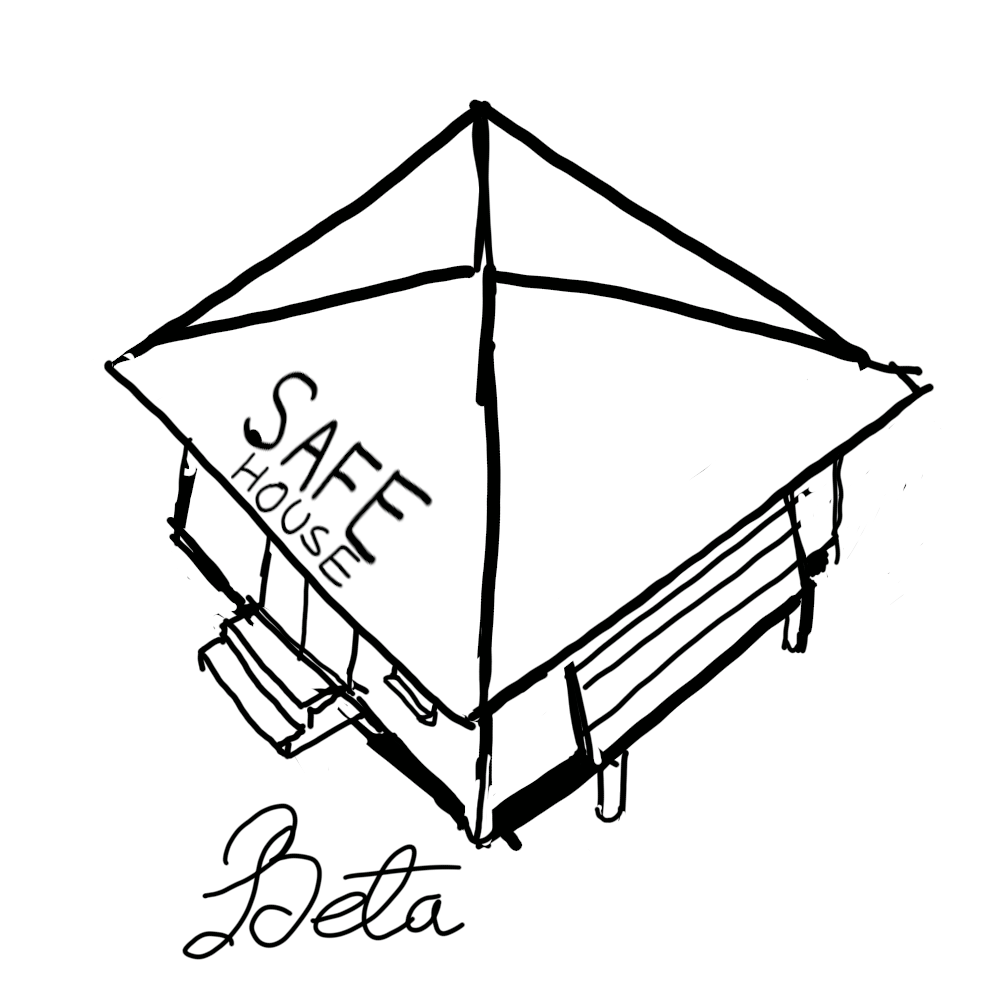
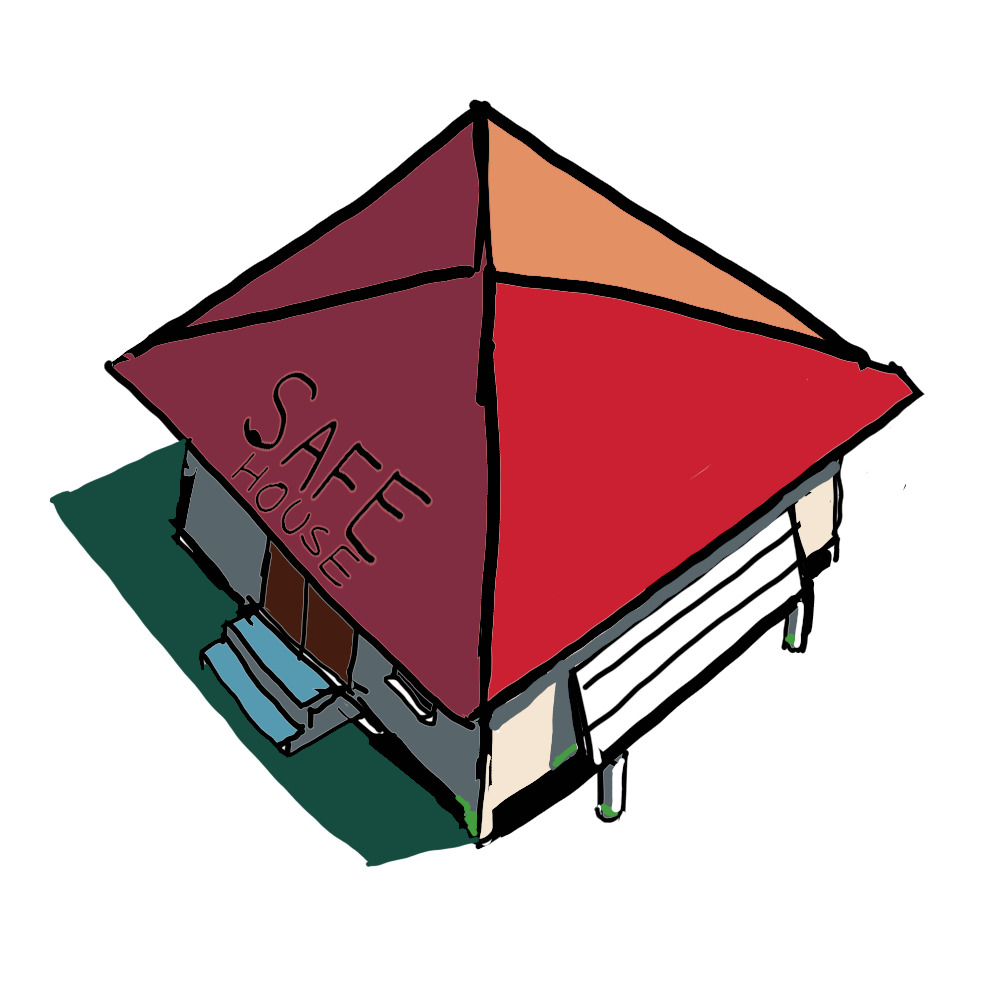
Updated graphics for safehouse placeholder.

diff --git a/source/core/src/main/com/deco2800/game/areas/ForestGameArea.java b/source/core/src/main/com/deco2800/game/areas/ForestGameArea.java
@@ -120,13 +120,11 @@ public class ForestGameArea extends GameArea {
   }
 
   private void spawnSafehouse() {
-    GridPoint2 minPos = new GridPoint2(0, 0);
-    GridPoint2 maxPos = terrain.getMapBounds(0).sub(2, 2);
+    GridPoint2 center = new GridPoint2(15, 15);
 
-    GridPoint2 randomPos = RandomUtils.random(minPos, maxPos);
     Entity safehouse = ObstacleFactory.createSafehouse();
     // Position is currently procedurally (kidding, just randomly) generated.
-    spawnEntityAt(safehouse, randomPos, true, false);
+    spawnEntityAt(safehouse, center, true, false);
   }
 
   private Entity spawnPlayer() {
